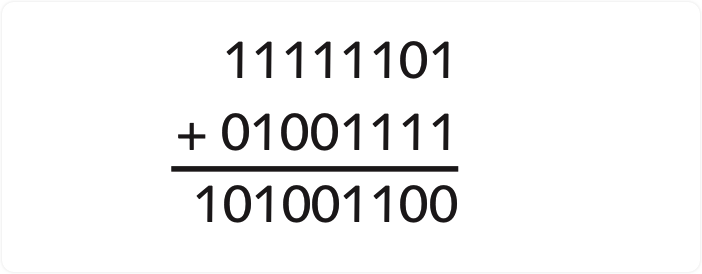
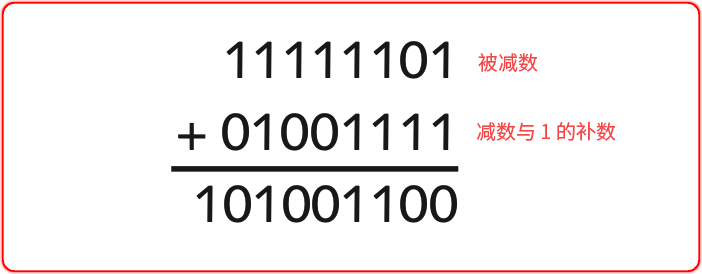
2022.10.12

Changed region(s): [[0.0, 0.0, 1.0, 1.0], [0.6581, 0.438, 0.8974, 0.5255], [0.6581, 0.1752, 0.7778, 0.2628]]

diff --git a/编码_Book/Unit13.md b/编码_Book/Unit13.md
@@ -4,7 +4,7 @@
 
 当你确信继电器连接到一起真的可以实现二进制数加法的时候，你可能会问： "那么如何实现减法呢？" 本章后续的内容会帮你解答这个问题，因此提出这样的问题并不是说你在没事找事，而实际上这表明你是相当有察觉力的。加法和减法在某些方面相互补充，但在机制方面这两个运算则是不同的。**加法是始终从两个加数的最右列向最左列进行计算的。每一列的进位加到下一列中**。**在减法中没有进位，而是有借位——一种与加法存在本质区别的麻烦机制**。
 
-## ▲ 1. 减数小于被减数的减法（十进制）
+## ▲ 减数小于被减数的减法（十进制）
 
 例如，我们来看一个典型的借位减法的题目：
 
@@ -77,7 +77,7 @@ $$
 
 这个式子与刚才描述过的用 9 的补数进行的计算是相同的。我们用两个减法和两个加法来替代一个减法，而在这个过程中避免了烦琐的借位。
 
-## ▲ 2. 减数大于被减数的减法（十进制）
+## ▲ 减数大于被减数的减法（十进制）
 
 如果减数大于被减数会怎么样呢？例如以下问题：
 
@@ -111,7 +111,7 @@ $$
 
 
 
-##  ▲ 1. 减数小于被减数的减法（二进制）
+## ▲ 减数小于被减数的减法（二进制）
 
 同样的技巧可以用于二进制数中，而且实际上这要比十进制数简单。让我们一起来看看该如何操作。
 
@@ -123,7 +123,7 @@ $$
 
 ![image-20221003212545487](Unit13.assets/image-20221003212545487.png)
 
-**第一步，用 1111-1111（即 255）减去减数：**
+**第一步，用 1111-1111（即 255）减去减数：** **(即：先求：减数对 1 的补数)**
 
 ![image-20221003212602662](Unit13.assets/image-20221003212602662.png)
 
@@ -135,6 +135,8 @@ $$
 **第二步，将减数对 1 的补数与被减数相加：**
 
 ![image-20221003212615980](Unit13.assets/image-20221003212615980.png)
+
+<p style="color:red; text-align:center; font-weight:bold;">图 (1)</p>
 
 **第三步，将上式所得结果加 1：**
 
@@ -148,7 +150,7 @@ $$
 
 
 
-## ▲ 2. 减数大于被减数的减法（二进制）
+## ▲ 减数大于被减数的减法（二进制）
 
 
 我们把这两个数颠倒位置后再做一遍。在十进制中，减法题目对应于：
@@ -175,20 +177,25 @@ $$
 
 到这里，我们已经有了足够的条件来改造上一章所搭建的加法器，并让它像实现加法一样来实现减法运算。为了不让问题太复杂，这个新的加/减法器只执行在减数小于被减数的减法操作，即结果为正数的操作。
 
-该加法器的核心是由逻辑门集成的8位全加器。
+## ▲ 8 位加/减器
+
+注：减法只执行减数小于被减数的操作。
+
+该加法器的核心是由逻辑门集成的 8 位全加器。
 
 ![image-20221003212825132](Unit13.assets/image-20221003212825132.png)
 
+你可能还记得，输入 $A_0 - A_7$ 及 $B_0 - B_7$ 与两排分别表示两个要相加的 8 位二进制数的开关相连。进位输入接地。与 $S_0 - S_7$ 表示结果的 8 个灯泡相连。由于这个加法有可能得到 9 位数值，进位输出端也连接了一个灯泡。
 
-你可能还记得，输入A<span class="subscript">0</span>～A<span class="subscript">7</span>及B<span class="subscript">0</span>～B<span class="subscript">7</span>与两排分别表示两个要相加的8位二进制数的开关相连。进位输入接地。S<span class="subscript">0</span>～S<span class="subscript">7</span>与表示结果的8个灯泡相连。由于这个加法有可能得到9位数值，进位输出端也连接了一个灯泡。
+- *注：下图实际上只做了一个操作，即上面加了红框的 `图 (1)`*
 
 控制面板示意如下图所示。
 
 ![image-20221003212844192](Unit13.assets/image-20221003212844192.png)
 
-在上图中，开关所表示的是183（即10110111）与22（即00010110）相加，结果如灯泡所示为205（即11001101）。
+在上图中，开关所表示的是 183（即 10110111）与 22（即 00010110）相加，结果如灯泡所示为 205（即 11001101）。
 
-8位加/减法器所用的新面板较从前做了些许的改动。它增设了一个开关，用以选择做加法还是做减法。
+8 位加/减法器所用的新面板较从前做了些许的改动。它增设了一个开关，用以选择做加法还是做减法。
 
 ![image-20221003212859793](Unit13.assets/image-20221003212859793.png)
 
